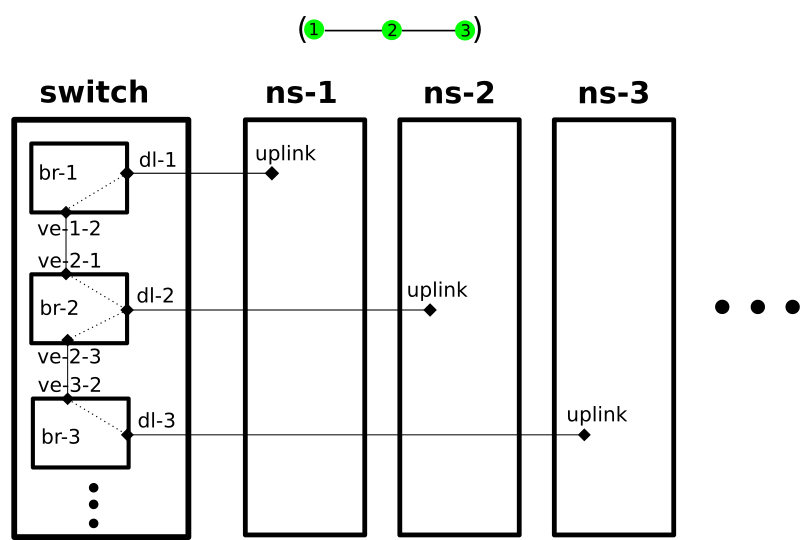
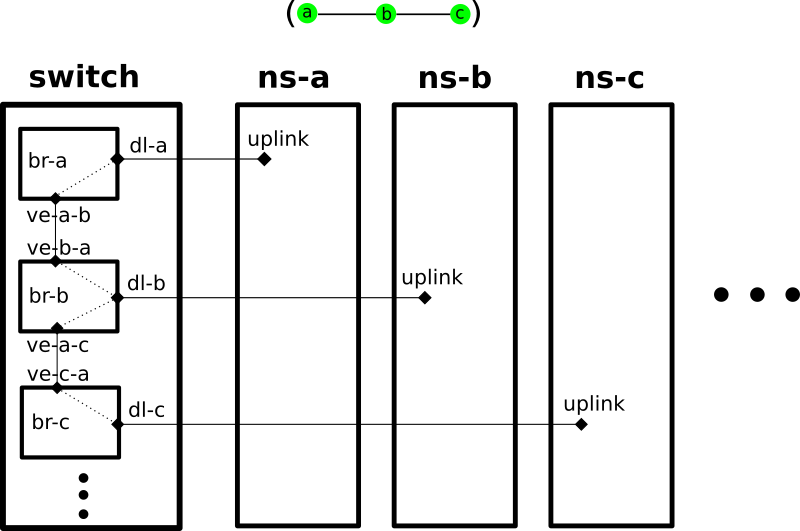
uniform node naming in all examples

Changed region(s): [[0.0, 0.1205, 0.8438, 1.0], [0.3438, 0.0, 0.625, 0.0904], [0.875, 0.5424, 1.0, 0.6026]]

diff --git a/README.md b/README.md
@@ -84,7 +84,7 @@ All bridges have `ageing_time` and `forward_delay` set to 0 to make them behave 
 
 ![Visual Example](misc/network_mapping.png)
 
-- Applications can be started in ns1, ns2, ns3 and see only their interface called `uplink`
+- Applications can be started in namespaces `ns-a`, `ns-b`, `ns-c` etc. and see only their interface called `uplink`
 - bridges have properties `stp_state`, `ageing_time` and `forward_delay` set to 0
 - ve-* interfaces have property `isolated` set to `on`
 - only one simulation can be run at the same time
